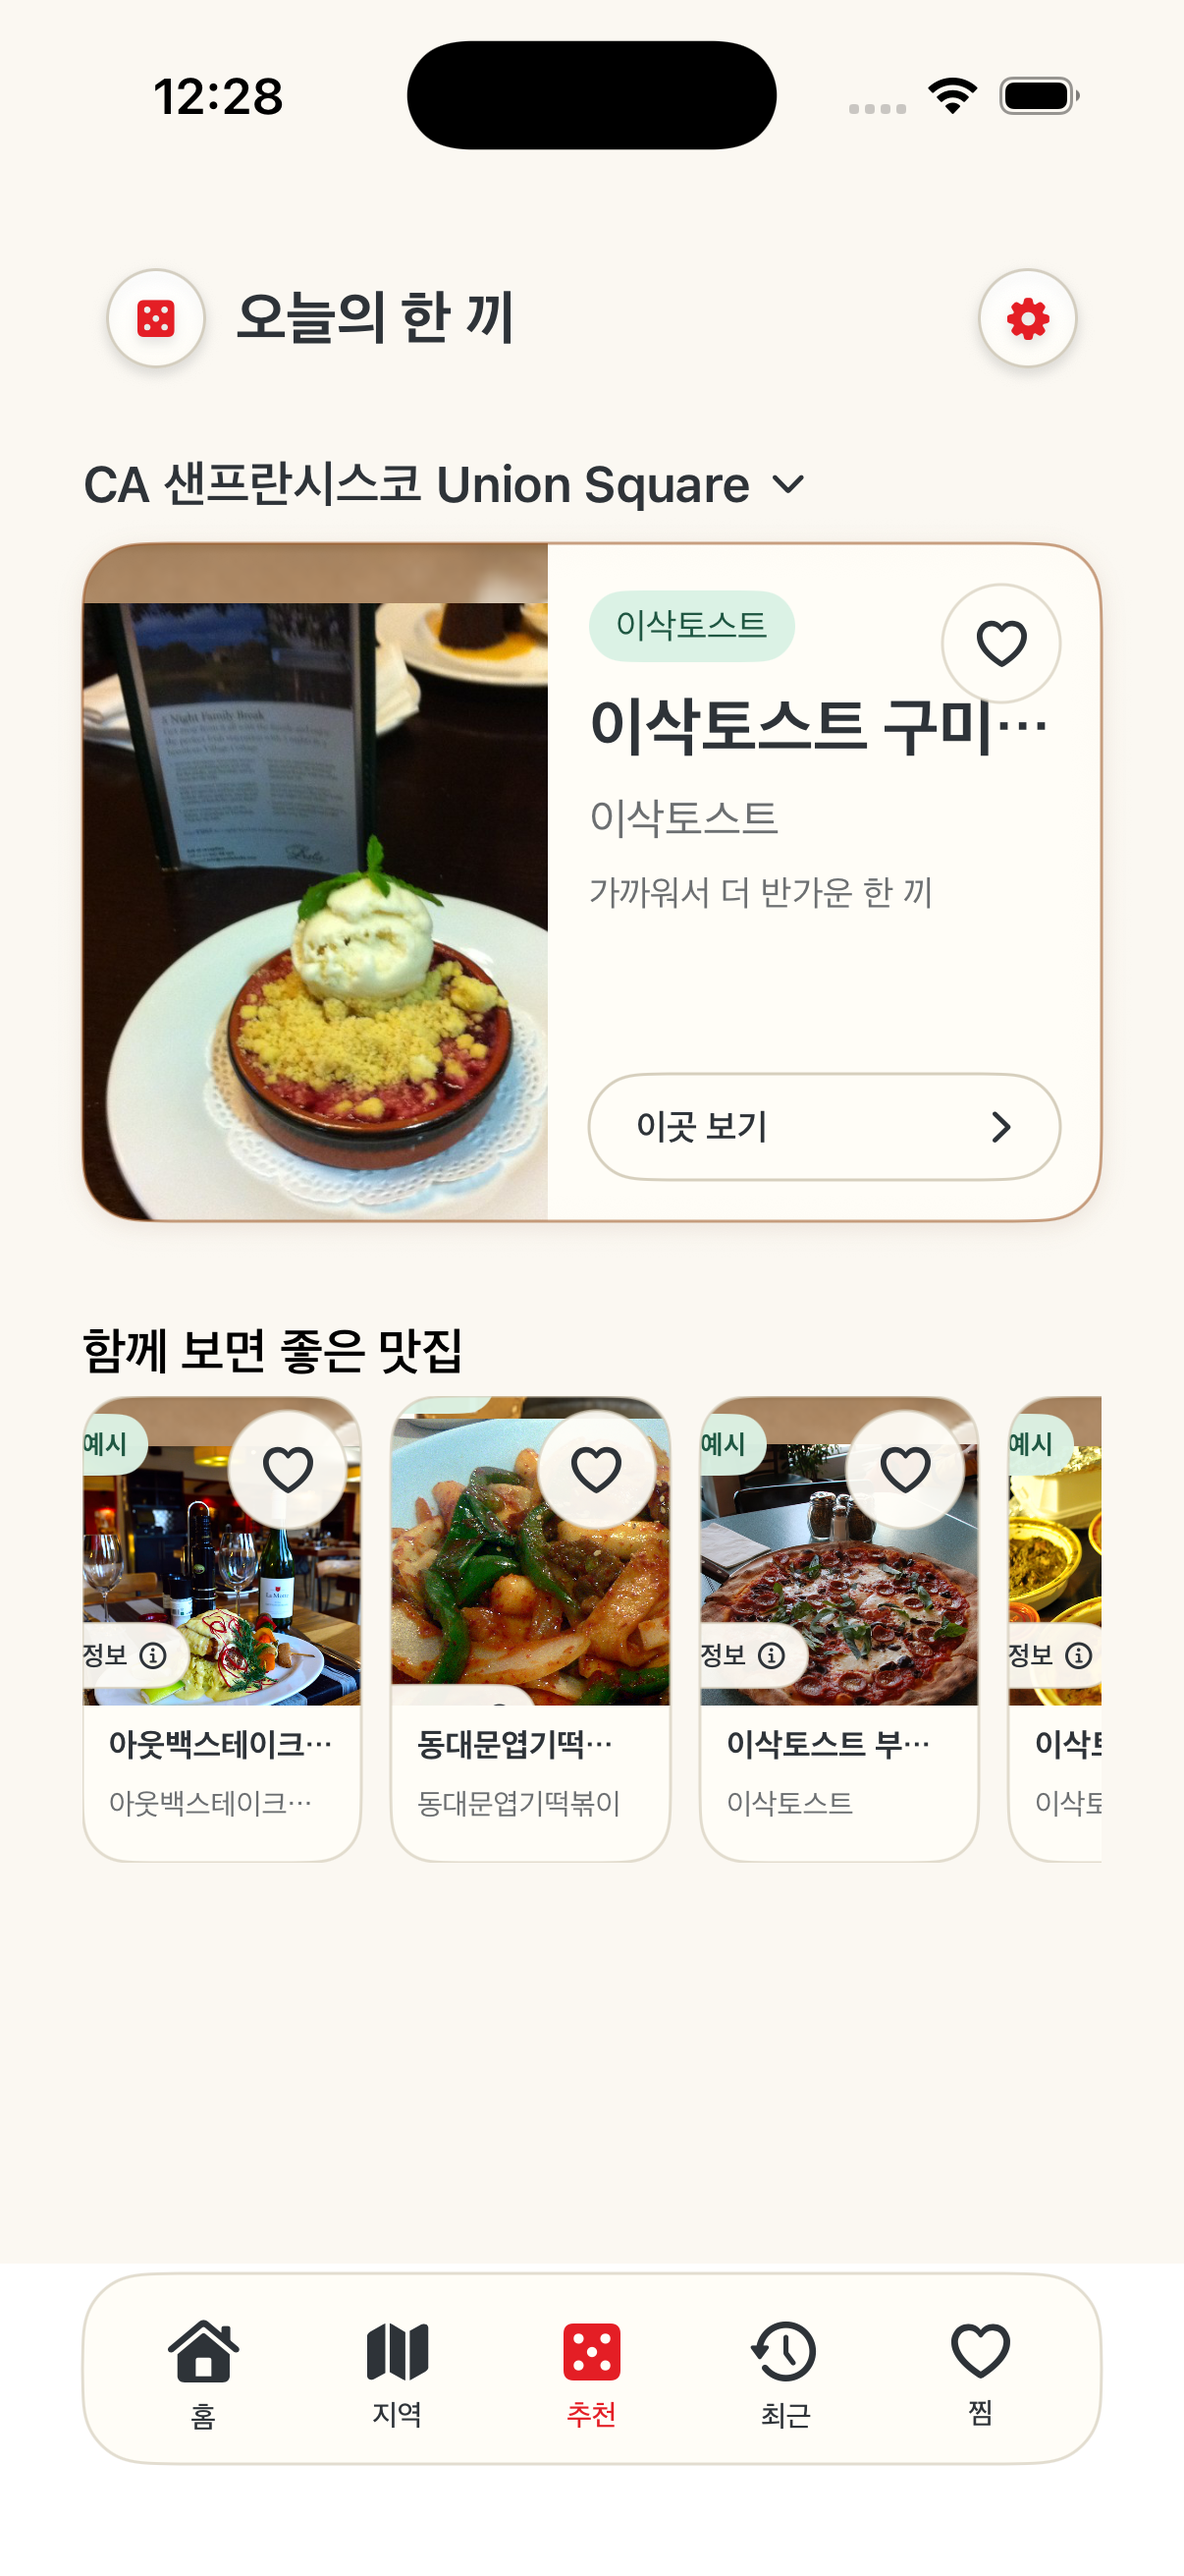
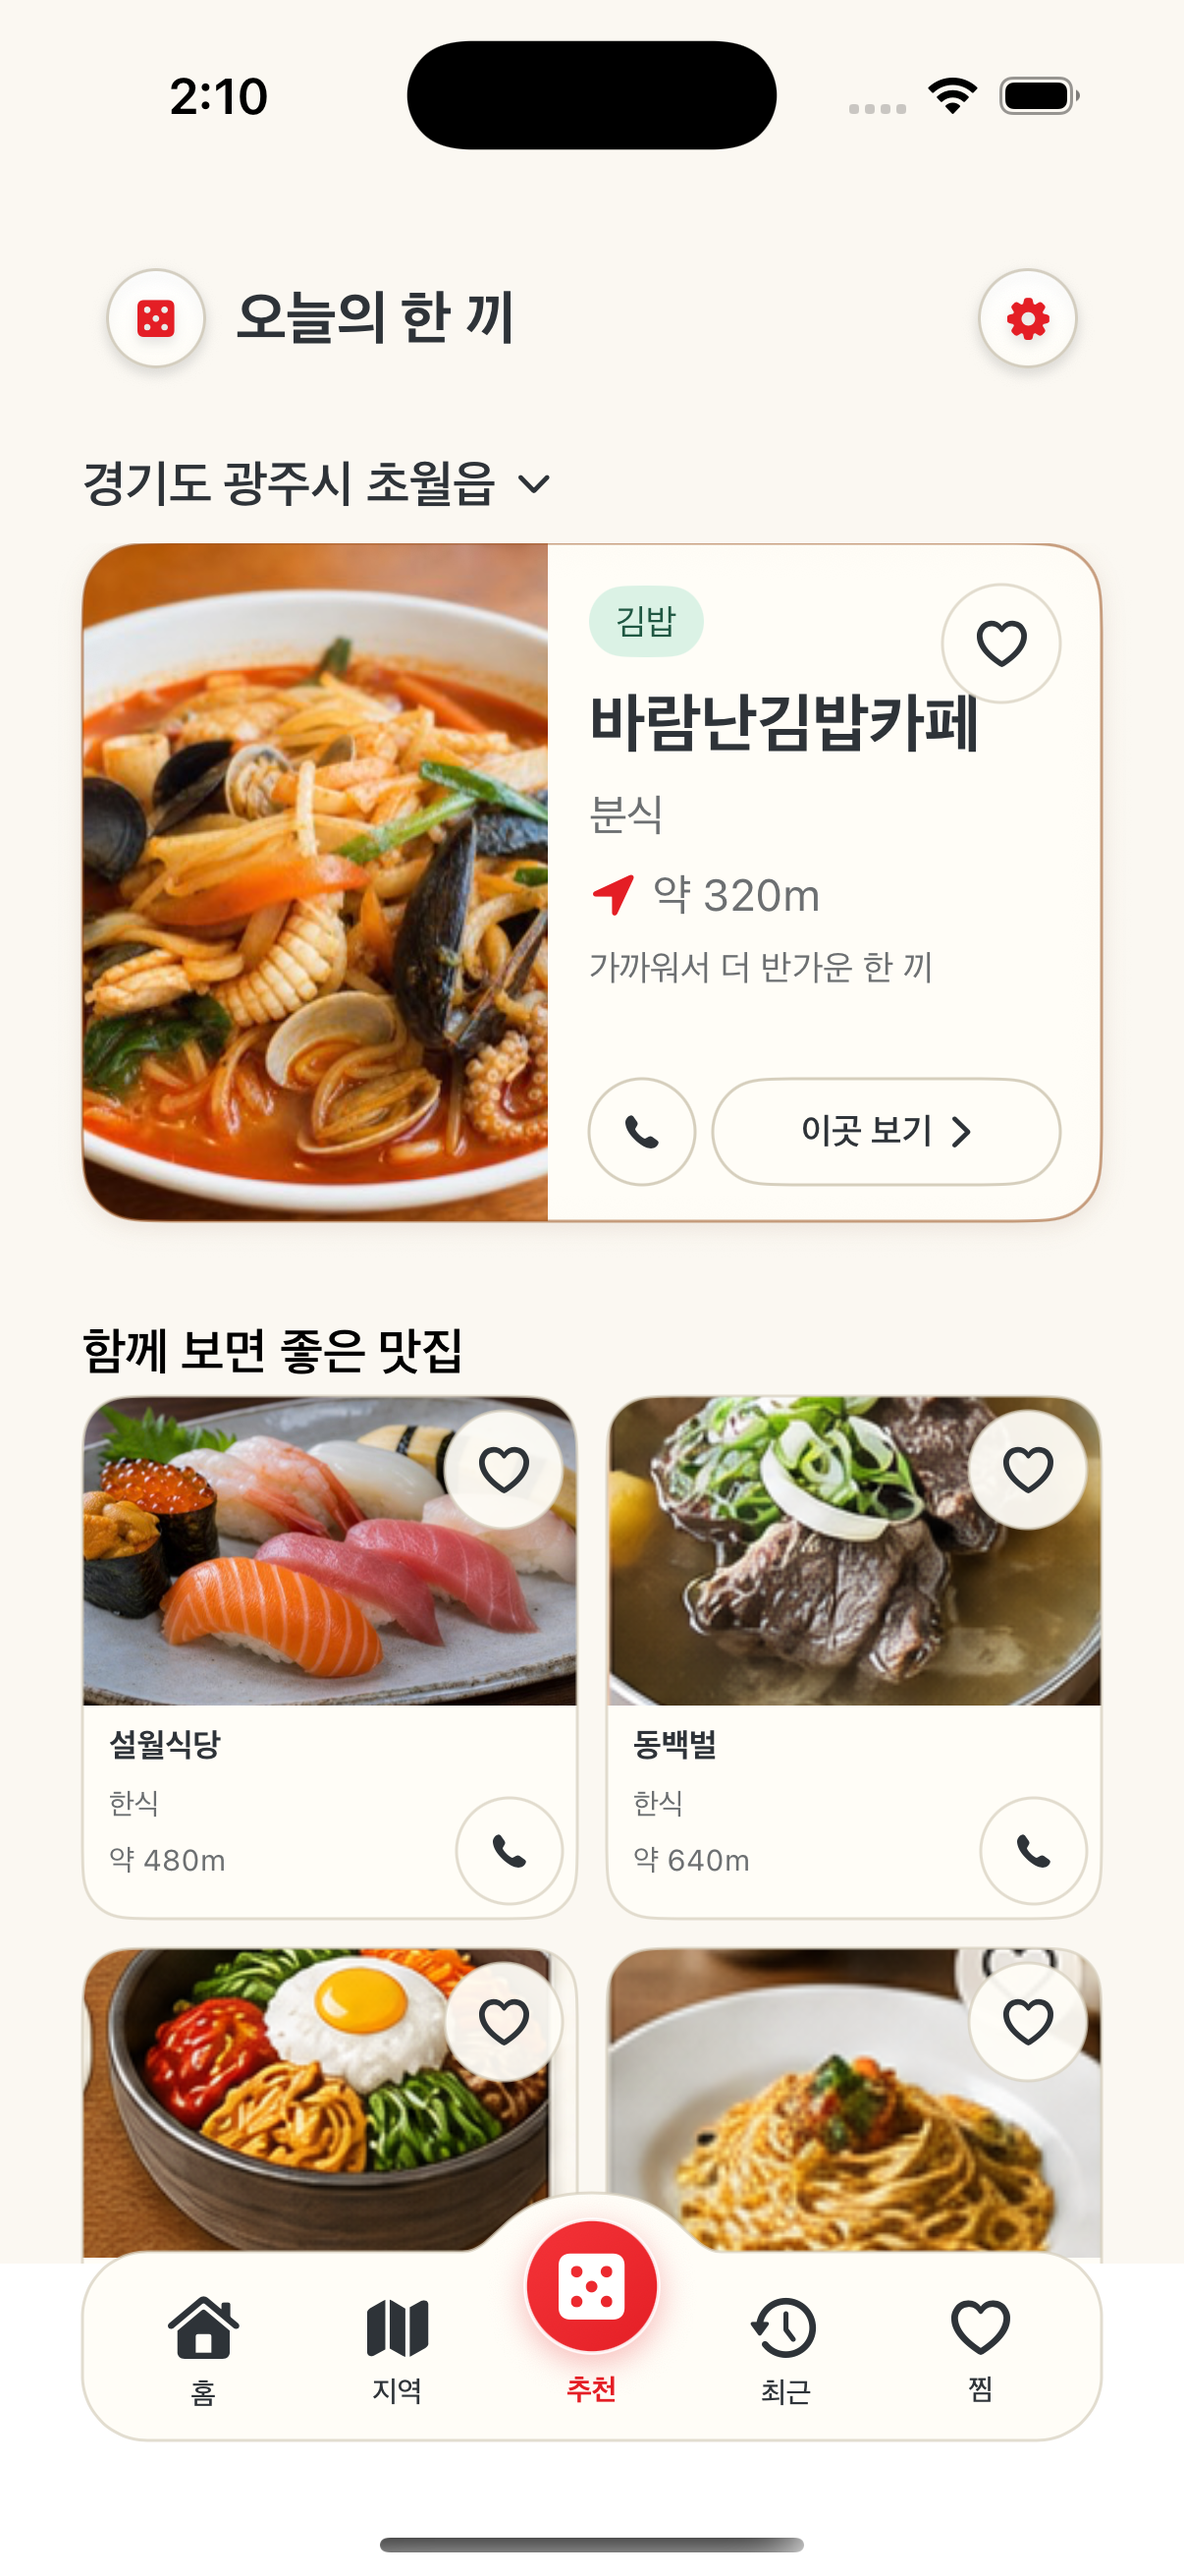
Publish WhattoEat phone actions

diff --git a/app/data.ts b/app/data.ts
@@ -746,12 +746,12 @@ export const apps: AppData[] = [
     english: "What to Eat",
     eyebrow: "ONE GOOD MEAL, NEARBY",
     tagline: "오늘의 한 끼를, 가까운 곳에서.",
-    summary: "현재 위치나 고른 지역을 기준으로 가까운 음식점 13곳을 추리고, 사진과 함께 오늘의 한 끼를 제안합니다. 최근 선택과 찜을 지역별로 모아 다음 선택도 가볍게 이어갑니다.",
+    summary: "현재 위치나 고른 지역을 기준으로 가까운 음식점 13곳을 추리고, 사진과 함께 오늘의 한 끼를 제안합니다. 전화번호가 있는 식당은 바로 전화해 영업 여부를 물을 수 있습니다.",
     theme: "coral",
     icon: "/apps/whattoeat/icon.png",
     artwork: "phones",
     platforms: [
-      { name: "iPhone · iPad", status: "TestFlight", detail: "0.2.5 (202608241232) · iOS·iPadOS 17+", availabilityNote: "TestFlight 처리 완료 · 내부 테스트 가능" },
+      { name: "iPhone · iPad", status: "TestFlight", detail: "0.2.6 (202608241410) · iOS·iPadOS 17+", availabilityNote: "TestFlight 업로드 완료 · Apple 처리 중" },
[1 lines of base64/hex data omitted]
       { name: "Android · Google TV", status: "개발 중", detail: "Android 8.0+ · TV 런처 진입점 리소스 검증 완료", availabilityNote: "공개 APK 전 · 리모컨 화면 검증 전" },
     ],
@@ -760,6 +760,7 @@ export const apps: AppData[] = [
       { title: "기다리는 순간도 한 끼답게", body: "추천을 고르는 동안 음식 토큰과 주사위가 움직이는 애니메이션으로 선택의 기대감을 이어갑니다." },
       { title: "사진으로 먼저 맛보기", body: "식당 사진을 우선하고, 없을 때는 대표 메뉴와 이름을 함께 판단한 서로 다른 예시 사진으로 빈 화면 없이 제안합니다." },
       { title: "원하는 지도 앱으로 바로", body: "네이버 지도, Apple 지도, 카카오맵과 Google 지도 중 하나를 정해 두고 식당 위치와 길 찾기를 이어갑니다." },
+      { title: "영업 중인지 바로 전화하기", body: "전화번호가 있는 추천 식당은 원형 전화 버튼으로 바로 연결하고, 오늘의 결정에서는 번호도 함께 확인합니다." },
       { title: "최근과 찜을 지역별로", body: "오늘 결정한 한 끼와 다시 가고 싶은 식당을 지역별로 모아 보고, 하트나 밀기로 간단히 정리합니다." },
       { title: "점심 전에 가볍게 알림", body: "점심시간과 몇 분 전에 받을지 정하면 이 기기에서 오늘의 한 끼 알림을 받을 수 있습니다." },
     ],
@@ -775,7 +776,7 @@ export const apps: AppData[] = [
       { state: "done", title: "0.2.3 내부 테스트", body: "build 202608240838 iOS·iPadOS와 macOS를 내부 TestFlight 그룹에 배포" },
       { state: "done", title: "0.2.4 릴리스", body: "build 202608240930 iOS·iPadOS와 macOS TestFlight 처리 완료, 공증된 Mac용 DMG 공개" },
       { state: "done", title: "0.2.5 릴리스", body: "build 202608241232 iOS·iPadOS TestFlight 내부 테스트 준비 완료, Mac용 DMG 공개" },
-      { state: "done", title: "0.2.6 전화 연결 구현", body: "전화번호가 있는 추천 식당에서 바로 영업 여부를 물을 수 있는 전화 버튼을 구현하고 로컬 빌드 확인 · 배포 전" },
+      { state: "done", title: "0.2.6 전화 연결 릴리스", body: "build 202608241410 iOS·iPadOS TestFlight 업로드 완료 · Apple 처리 중" },
     ],
     screenshots: [
       { src: "/apps/whattoeat/screens/home.png", alt: "오늘 뭐 먹지 홈에서 현재 위치와 지역 선택을 고르는 화면" },

diff --git a/app/testflight.ts b/app/testflight.ts
@@ -16,5 +16,5 @@ export const testFlightBuilds: TestFlightBuild[] = [
   { slug: "htoms-brief", appName: "HtOMS 브리프", build: "202608230737", uploadedAt: "2026-08-23T08:12:19+09:00", inviteUrl: null },
   { slug: "starmanager", appName: "스타메니저", build: "202608230737", uploadedAt: "2026-08-23T08:13:38+09:00", inviteUrl: null },
   { slug: "button", appName: "버튼", build: "202608230737", uploadedAt: "2026-08-23T08:14:39+09:00", inviteUrl: null },
-  { slug: "whattoeat", appName: "오늘 뭐 먹지??", build: "202608241232", uploadedAt: "2026-08-24T13:08:37+09:00", inviteUrl: null },
+  { slug: "whattoeat", appName: "오늘 뭐 먹지??", build: "202608241410", uploadedAt: "2026-08-24T14:14:17+09:00", inviteUrl: null },
 ];
